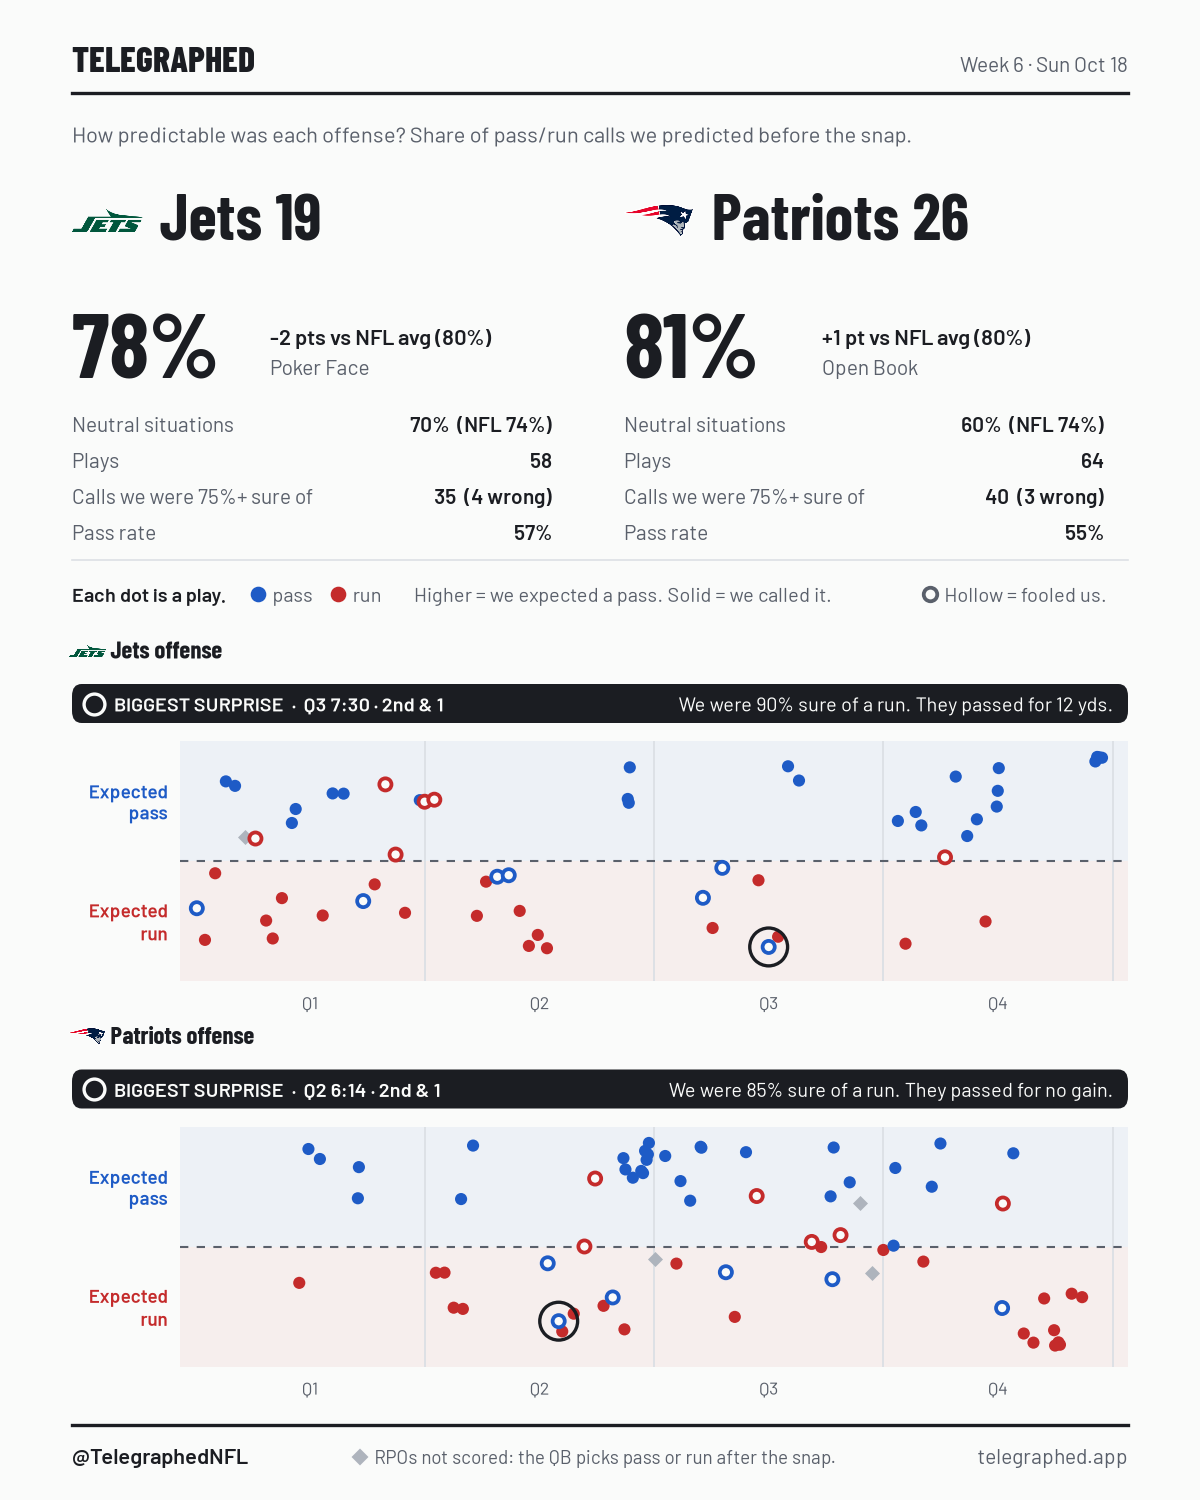
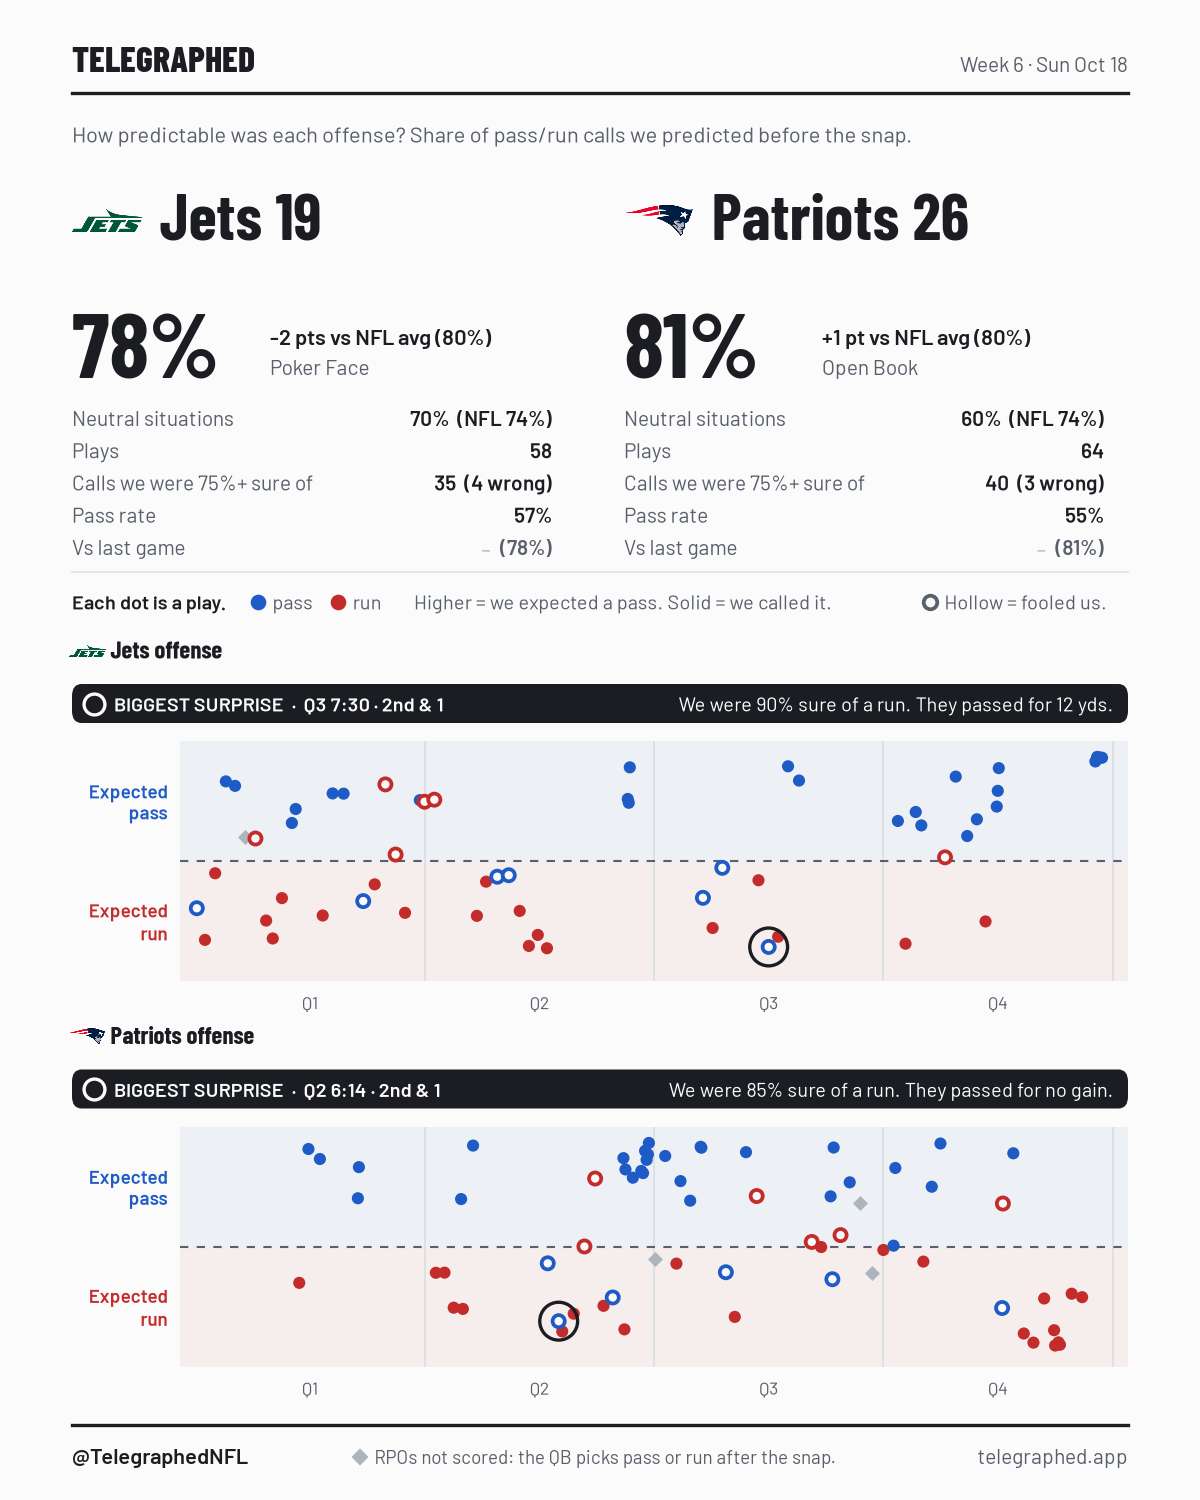
Change-since-last-week arrows on cards, tweets and the site
Weekly rankings card + /weekly chart: rank change column; tweet lines carry it.
Game cards: 'Vs last game' row (change in read rate vs the offense's previous
game); game tweets too. Main page rankings teaser shows rank moves. Arrows are
drawn triangles on the cards (Barlow has no arrow glyphs), neutral ink.

Claude-Session: https://claude.ai/code/session_01NWKE53WeDF9oazSkcFb3rH

Changed region(s): [[0.0617, 0.276, 0.7092, 0.4293], [0.74, 0.276, 0.925, 0.4293]]

diff --git a/site/weekly/index.html b/site/weekly/index.html
@@ -75,6 +75,8 @@ svg text { font-family: var(--text); }
 .lb { fill: var(--ink); font-size: 13px; }
 .key { display: flex; gap: 1.25rem; font-size: .85rem; color: var(--ink-2); margin: .25rem 0 .5rem; flex-wrap: wrap; }
 .key span::before { content: ""; display: inline-block; width: .7rem; height: .7rem; border-radius: 50%; margin-right: .35rem; vertical-align: -1px; background: var(--c); box-sizing: border-box; }
+.key span.arrows::before { display: none; }
+.mv { font-size: .8em; color: var(--ink-2); margin-left: .35em; }
 .key span.hollow::before { background: transparent; border: 2px solid var(--pass); }
 .tip { position: absolute; pointer-events: none; background: var(--board); border: 1px solid var(--grid); border-radius: 8px; padding: .35rem .6rem; font-size: .82rem; box-shadow: 0 4px 14px var(--shadow); display: none; white-space: nowrap; z-index: 5; }
 .tip .t { color: var(--ink-2); }
@@ -119,7 +121,7 @@ img.logo { width: 1.15em; height: 1.15em; object-fit: contain; vertical-align: -
       <div class="num"><div class="v" id="n-avg">—</div><div class="k">League average, neutral situations</div></div>
       <div class="num"><div class="v pub" id="n-bot">—</div><div class="k" id="k-bot">Least predictable</div></div>
     </div>
-    <div class="chart" id="c-rank"><div class="key"><span style="--c:var(--pass)">Open Book: above average</span><span class="hollow">Poker Face: below average</span><span style="--c:var(--ink-2)">League average</span></div></div>
+    <div class="chart" id="c-rank"><div class="key"><span style="--c:var(--pass)">Open Book: above average</span><span class="hollow">Poker Face: below average</span><span style="--c:var(--ink-2)">League average</span><span class="arrows" id="k-move">▲▼ rank vs last week</span></div></div>
     <details class="tbl"><summary>Show as a table</summary>
       <table><thead><tr><th>#</th><th>Move</th><th>Offense</th><th class="n">Neutral</th><th class="n">All plays</th><th class="n">Snaps</th></tr></thead><tbody id="tbl"></tbody></table>
     </details>
@@ -171,7 +173,8 @@ function rankChart(rows, avg) {
   const lg = rows[0].abbr ? 24 : 0;   // logo column
   const lw = rw + lg + textW(svg, rows.map((r) => r.team), 'lb') + 14;
   const lo = d3.min(rows, (r) => r.neutral), hi = d3.max(rows, (r) => r.neutral);
-  const x = d3.scaleLinear([Math.floor((lo - .02) * 50) / 50, Math.ceil((hi + .02) * 50) / 50], [lw + 40, W - 48]);
+  const mw = D_week > 1 ? 34 : 0;   // rank-change column on the right
+  const x = d3.scaleLinear([Math.floor((lo - .02) * 50) / 50, Math.ceil((hi + .02) * 50) / 50], [lw + 40, W - 48 - mw]);
   const y = d3.scaleBand(rows.map((r) => r.team), [4, H - 26]).padding(.3);
   const cy = (r) => y(r.team) + y.bandwidth() / 2;
   const ticks = x.ticks(Math.max(2, Math.floor((W - lw) / 80)));
@@ -188,13 +191,18 @@ function rankChart(rows, avg) {
     .attr('fill', (r) => (up(r) ? css('--pass') : css('--board'))).attr('stroke', css('--pass')).attr('stroke-width', (r) => (up(r) ? 0 : 2.5));
   g.append('text').attr('class', 'tk').attr('fill', css('--ink')).attr('y', cy).attr('dy', '.35em')
     .attr('x', (r) => x(r.neutral) + (up(r) ? 12 : -12)).attr('text-anchor', (r) => (up(r) ? 'start' : 'end')).text((r) => fmt0(r.neutral));
+  if (mw) g.append('text').attr('class', 'tk').attr('x', W - 2).attr('y', cy).attr('dy', '.35em').attr('text-anchor', 'end')
+    .attr('fill', (r) => (r.move ? css('--ink-2') : css('--grid'))).text((r) => moveTxt(r.move));
   const tip = tipFor(box);
   g.append('rect').attr('x', 0).attr('width', W).attr('y', (r) => y(r.team)).attr('height', y.bandwidth()).attr('fill', 'transparent')
     .on('mousemove', (ev, r) => tip.show(ev, `#${r.rank} ${r.team}`, [`${fmtP(r.neutral)} called, neutral situations`, `${fmtP(r.acc)} called, all plays`, `${fmtC(r.snaps)} neutral snaps`, `Last week: ${moveTxt(r.move)}`]))
     .on('mouseleave', () => tip.hide());
 }
 
+let D_week = 1;
 function draw(D) {
+  D_week = D.week;
+  if (D.week <= 1) el('k-move').remove(); else el('k-move').textContent = `▲▼ rank vs week ${D.week - 1}`;
   const T = D.teams, top = T[0], bot = T[T.length - 1];
   el('meta').textContent = `${D.season} · Week ${D.week}`;
   el('hero-sub').textContent = `Every play caller has a tell. Through week ${D.week} of ${D.season}, we called ${fmt0(D.league_acc)} of all pass/run plays before the snap. Here's who gives it away most.`;

diff --git a/site/index.html b/site/index.html
@@ -64,6 +64,7 @@ a.weekly .wk { color: var(--ink-2); font-size: .85rem; font-weight: 500; }
 a.weekly .wh { font-family: var(--display); font-weight: 700; font-size: clamp(1.5rem, 4vw, 2rem); line-height: 1.05; margin: .1rem 0 .4rem; }
 a.weekly .wl { display: flex; gap: .4rem 1.5rem; flex-wrap: wrap; color: var(--ink-2); font-size: .95rem; }
 a.weekly .wl b { color: var(--ink); font-weight: 600; }
+.mv { font-size: .8em; color: var(--ink-2); margin-left: .3em; }
 img.logo, image.logo { filter: var(--logo-halo, none); }
 img.logo { width: 1.15em; height: 1.15em; object-fit: contain; vertical-align: -.22em; margin-right: .3em; }
 a.weekly .dot { display: inline-block; width: .7rem; height: .7rem; border-radius: 50%; margin-right: .35rem; vertical-align: -1px; background: var(--pass); }
@@ -286,6 +287,7 @@ function weeklyTeaser(W) {
     const b = Object.assign(document.createElement('b'), { textContent: `${r.team} ${fmt0(r.neutral)}` });
     if (r.abbr) b.prepend(logoImg(r.abbr));
     s.append(d, label + ' ', b);
+    if (W.week > 1 && r.move) s.append(Object.assign(document.createElement('span'), { className: 'mv', textContent: r.move > 0 ? `▲${r.move}` : `▼${-r.move}` }));
     return s;
   };
   l.append(item('', 'Open Book:', top), item(' hollow', 'Poker Face:', bot));

diff --git a/src/game_cards.py b/src/game_cards.py
@@ -17,7 +17,7 @@ import matplotlib.patches
 import numpy as np
 import pandas as pd
 sys.path.insert(0, os.path.dirname(os.path.abspath(__file__)))
-from brand import HANDLE, SITE, NICK, TAG, BOARD, INK, INK2, GRID, PASS, RUN, use_fonts, pct, logo, logo_w
+from brand import HANDLE, SITE, NICK, TAG, BOARD, INK, INK2, GRID, PASS, RUN, use_fonts, pct, logo, logo_w, arrow, change
 from scoring import mark_rpo, NOTE
 
 D = os.environ.get("DATA", "data")
@@ -69,7 +69,7 @@ def put(fig, rend, x, text, disp):
     return fig.transFigure.inverted().transform(t.get_window_extent(rend))[1][0]
 
 
-def card(path, gid, G, league, league_n, week):
+def card(path, gid, G, league, league_n, week, prev):
     use_fonts()
     disp = dict(family="Barlow Condensed")
     away, home = G.away_team.iloc[0], G.home_team.iloc[0]
@@ -105,14 +105,19 @@ def card(path, gid, G, league, league_n, week):
                 ("Plays", f"{s['plays']}"),
                 (f"Calls we were {pct(SURE)}+ sure of", f"{s['sure']}  ({s['sure_missed']} wrong)"),
                 ("Pass rate", pct(s["pass_rate"]))]
+        if prev.get(t) is not None:   # this offense's previous game; the change is drawn beside it (whole points, as shown)
+            rows.append(("Vs last game", f"({pct(prev[t])})"))
         for i, (k, v) in enumerate(rows):
-            y = 0.712 - i * 0.024
+            y = 0.716 - i * 0.0215
             fig.text(x, y, k, color=INK2, fontsize=10)
-            fig.text(x + 0.40, y, v, color=INK, fontsize=10, ha="right", weight="semibold")
-    line(0.627, 0.8, GRID)
+            v_ = fig.text(x + 0.40, y, v, color=INK if k != "Vs last game" else INK2, fontsize=10, ha="right", weight="semibold")
+            if k == "Vs last game":
+                left = fig.transFigure.inverted().transform(v_.get_window_extent(rend))[0][0]
+                change(fig, left - 0.008, y + 0.004, round(100 * s["acc"]) - round(100 * prev[t]), " pts", size=10, color=INK)
+    line(0.619, 0.8, GRID)
 
     # how to read it
-    ky = 0.604
+    ky = 0.599
     fig.text(0.06, ky, "Each dot is a play.", color=INK, fontsize=9.5, va="center", weight="semibold")
     fig.lines.append(plt.Line2D([0.215], [ky], transform=fig.transFigure, marker="o", ms=6.5, color=PASS, lw=0))
     fig.text(0.227, ky, "pass", color=INK2, fontsize=9.5, va="center")
@@ -180,13 +185,14 @@ def card(path, gid, G, league, league_n, week):
     return away, home, a_s, h_s
 
 
-def tweet(away, home, a_s, h_s, G, league):
+def tweet(away, home, a_s, h_s, G, league, prev):
     lines = []
     G = G[~G.rpo]
     for t in sorted([away, home], key=lambda t: -G[G.posteam == t].hit.mean()):
         a = G[G.posteam == t].hit.mean()
         d = round(100 * a) - round(100 * league)
-        lines.append(f"{'📖' if d > 0 else '🃏' if d < 0 else '➖'} {NICK[t]} {pct(a)}")
+        ch = round(100 * a) - round(100 * prev[t]) if prev.get(t) is not None else None
+        lines.append(f"{'📖' if d > 0 else '🃏' if d < 0 else '➖'} {NICK[t]} {pct(a)}" + (f" ({arrow(ch)} vs last game)" if ch else ""))
     return (f"{NICK[away]} {a_s}, {NICK[home]} {h_s}\n\nHow predictable was each offense?\n" + "\n".join(lines)
             + f"\nNFL average: {pct(league)}\n\n#NFL {TAG[away]} {TAG[home]}")
 
@@ -206,8 +212,13 @@ def main():
         L = P[P.game_id.isin(charted) & (P.week <= week) & ~P.rpo]
         league, league_n = L.hit.mean(), L[L.neutral == 1].hit.mean()
         img = f"site/games/{gid}.png"
-        away, home, a_s, h_s = card(img, gid, G, league, league_n, week)
-        t = tweet(away, home, a_s, h_s, G, league)
+        # each offense's read rate in its previous game this season (RPOs not scored), for the change arrows
+        prev = {}
+        for tm in G.posteam.unique():
+            before = P[(P.posteam == tm) & (P.week < week) & ~P.rpo]
+            prev[tm] = before[before.week == before.week.max()].hit.mean() if len(before) else None
+        away, home, a_s, h_s = card(img, gid, G, league, league_n, week, prev)
+        t = tweet(away, home, a_s, h_s, G, league, prev)
         assert len(t) <= 280, (gid, len(t))
         json.dump(dict(season=season, week=week, game_id=gid, kickoff=str(G.game_date.iloc[0]), card=img, tweets=[t],
                        created=int(time.time())), open(f"state/games/{gid}.json", "w"), indent=1)

diff --git a/src/weekly_report.py b/src/weekly_report.py
@@ -15,7 +15,7 @@ import matplotlib.pyplot as plt
 import numpy as np
 import pandas as pd
 sys.path.insert(0, os.path.dirname(os.path.abspath(__file__)))
-from brand import BRAND, HANDLE, SITE, NICK, TAG, AT, BOARD, INK, INK2, GRID, PASS, use_fonts, pct, logo
+from brand import BRAND, HANDLE, SITE, NICK, TAG, AT, BOARD, INK, INK2, GRID, PASS, use_fonts, pct, logo, arrow, change
 from scoring import mark_rpo, NOTE
 
 D = os.environ.get("DATA", "data")
@@ -75,8 +75,8 @@ wt, wb = wk.iloc[0], wk.iloc[-1]
 # one tweet with the card; the brand lives in the bio and on the card, not in every post
 tweets = [
     f"Week {week}: how predictable is your offense?\n\n"
-    "📖 Open Book\n" + "\n".join(f"{r.rank}. {NICK[r.posteam]} {pct(r.acc_neutral)}" for r in top.head(3).itertuples())
-    + "\n\n🃏 Poker Face\n" + "\n".join(f"{r.rank}. {NICK[r.posteam]} {pct(r.acc_neutral)}" for r in bot.head(3).itertuples())
+    "📖 Open Book\n" + "\n".join(f"{r.rank}. {NICK[r.posteam]} {pct(r.acc_neutral)} {arrow(r.move)}".rstrip(" –") for r in top.head(3).itertuples())
+    + "\n\n🃏 Poker Face\n" + "\n".join(f"{r.rank}. {NICK[r.posteam]} {pct(r.acc_neutral)} {arrow(r.move)}".rstrip(" –") for r in bot.head(3).itertuples())
     + f"\n\nAll 32: {SITE}/weekly\n#NFL {TAG[top.posteam.iloc[0]]} {TAG[bot.posteam.iloc[0]]}",
 ]
 featured = list(top.posteam[:3]) + list(bot.posteam[:3])  # the teams named in the tweet
@@ -128,9 +128,11 @@ def card(path):
     fig.text(0.342, ky, "Poker Face: below average", color=INK2, fontsize=9.5, va="center")
     fig.lines.append(plt.Line2D([0.60, 0.60], [ky - 0.008, ky + 0.008], transform=fig.transFigure, color=INK2, lw=1.2, ls=(0, (2, 2))))
     fig.text(0.612, ky, "League average", color=INK2, fontsize=9.5, va="center")
+    if week > 1:
+        fig.text(0.94, ky, f"Rank vs wk {week - 1}", color=INK2, fontsize=9.5, va="center", ha="right")
 
     # ranked dot chart, same marks as the page
-    ax = fig.add_axes([0.25, 0.085, 0.69, 0.605], facecolor=BOARD)
+    ax = fig.add_axes([0.25, 0.085, 0.62, 0.605], facecolor=BOARD)   # right margin: rank change column
     n = len(ytd)
     yy = list(range(n))[::-1]
     v = ytd.acc_neutral.values
@@ -144,6 +146,9 @@ def card(path):
         ax.plot(r.acc_neutral, yi, "o", ms=7.5, mfc=PASS if up else BOARD, mec=PASS, mew=0 if up else 2, zorder=4)
         ax.text(r.acc_neutral + (0.0045 if up else -0.0045), yi, pct(r.acc_neutral), ha="left" if up else "right",
                 va="center", color=INK, fontsize=8.5, zorder=5)
+        if week > 1:
+            fy = fig.transFigure.inverted().transform(ax.transData.transform((0, yi)))[1]
+            change(fig, 0.94, fy, r.move, size=8.5)
         ax.annotate(f"{r.rank}", (0, yi), xycoords=("axes fraction", "data"), xytext=(-120, 0), textcoords="offset points",
                     ha="right", va="center", color=INK2, fontsize=8.5)
         logo(ax, r.posteam, (0, yi), 13, coords=("axes fraction", "data"), offset=(-105, 0))

diff --git a/src/brand.py b/src/brand.py
@@ -73,5 +73,35 @@ def logo(target, team, xy, size, coords="figure fraction", offset=(0, 0)):
     target.add_artist(box)
 
 
+def change(fig, x, y, n, suffix="", size=9, color=None, ha="right"):
+    """Week-over-week change on a card: a drawn triangle (Barlow has no arrow glyphs) + the number, e.g. ▲ 3 pts.
+    x is the right edge (ha="right") or left edge (ha="left") in figure fraction; y is the text's vertical center.
+    No change draws a dash. Neutral ink: moving up isn't good or bad."""
+    import matplotlib.pyplot as plt
+    color = color or INK2
+    n = int(round(n))
+    if n == 0:
+        fig.text(x, y, "–", color="#AEB4BD", fontsize=size, ha=ha, va="center")
+        return
+    t = fig.text(x, y, f"{abs(n)}{suffix}", color=color, fontsize=size, ha=ha, va="center")
+    tw = t.get_window_extent(fig.canvas.get_renderer()).width / fig.dpi / fig.get_figwidth()
+    mw = size * 0.75 / 72 / fig.get_figwidth()          # triangle width plus gap, figure fraction
+    if ha == "left":
+        t.set_x(x + mw)
+        mx = x + mw * 0.35
+    else:
+        mx = x - tw - mw * 0.65
+    fig.lines.append(plt.Line2D([mx], [y], transform=fig.transFigure, marker="^" if n > 0 else "v", ms=size * 0.55,
+                                color=color, lw=0))
+
+
+def arrow(n, unit=""):
+    """Change since last week: ▲3 / ▼2 / – (neutral ink everywhere: moving up isn't good or bad)."""
+    if n is None or n != n:
+        return ""
+    n = int(round(n))
+    return f"▲{n}{unit}" if n > 0 else (f"▼{-n}{unit}" if n < 0 else "–")
+
+
 def pct(x):
     return f"{100 * x:.0f}%"
